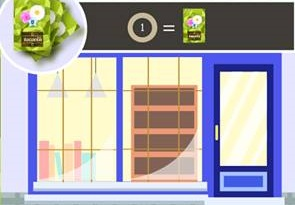
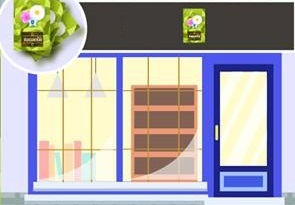
new images !

Changed region(s): [[0.4271, 0.0585, 0.6102, 0.2049]]

diff --git a/public/js/game_client.js b/public/js/game_client.js
@@ -202,7 +202,7 @@ $(document).ready(function(){
         $('.autoplay_button').remove();
         var $autoplayOn = $('<button/>').text('Autoplay: On').addClass('autoplay_button').hide();
         var $autoplayOff = $('<button/>').text('Autoplay: Off').addClass('autoplay_button');
-        $('#gamelog_window').append($autoplayOn).append($autoplayOff);
+        //$('#gamelog_window').append($autoplayOn).append($autoplayOff);
 
         $('.language_toggle').remove();
         var $langTH = $('<button/>').text('ไทย').addClass('language_toggle').hide();
@@ -354,14 +354,15 @@ $(document).ready(function(){
                             .val(mtt[i])
                     );
                 }
-                // random button is for testing only !!!!!
                 $('#button_area').append(
                     $('<button/>').addClass('submit_button')
                         .text('Submit')
-                ).append(
+                );
+                // random button is for testing only !!!!!
+                /*$('#button_area').append(
                     $('<button/>').addClass('random_button')
                         .text('Random')
-                );
+                );*/
 
                 addLog("----- planning phase -----");
                 if (language === 'EN')
